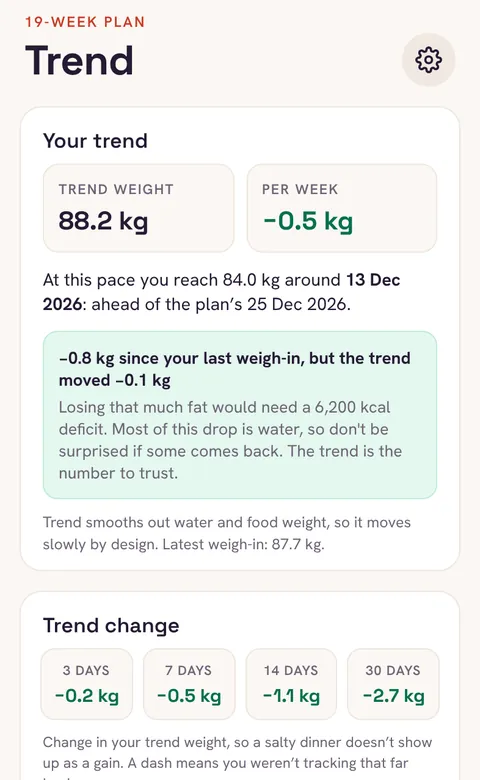
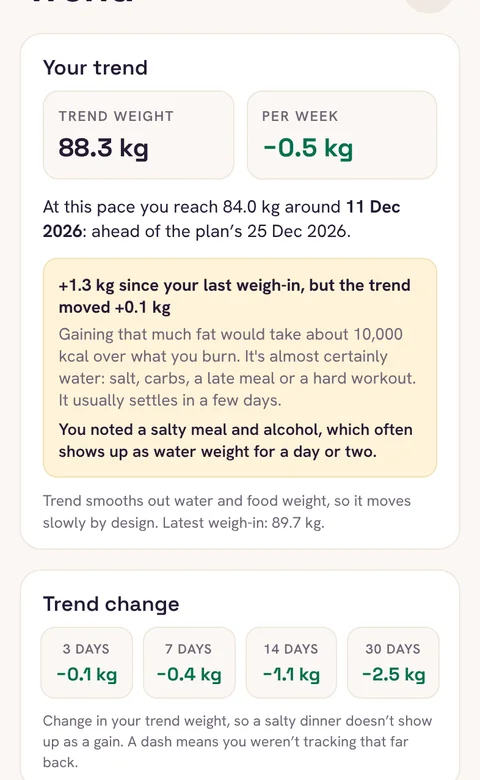
Web test build has Plus unlocked; website cards for the new features
- EXPO_PUBLIC_WEB_PLUS=1 (set by the Pages workflow) unlocks every Plus feature in the web test build only.
  It's checked together with Platform.OS === 'web', so it can't unlock the iPhone app; a test proves it.
- Inside Tidemark: six new cards from real renders (hide my weight, holding, medication, trend at each dose and
  side effects, doctor report, protein), with a Plus tag where it applies; the trend and log cards show tags.
  The card counter now counts the cards instead of a fixed 13.

Claude-Session: https://claude.ai/code/session_01NJzQ8Sbwud31aT5mXSmaWd

diff --git a/site/index.html b/site/index.html
@@ -300,6 +300,7 @@
     padding: 6px 10px; border-radius: 999px; margin-bottom: 12px; }
   .tag-now { color: var(--mint); background: var(--mint-bg); }
   .tag-soon { color: var(--amber); border: 1px solid rgba(255,162,75,.45); }
+  .tag-plus { color: var(--on-plum); background: rgba(255,107,94,.22); border: 1px solid rgba(255,107,94,.5); }
   .extras-note { text-align: center; color: var(--soft); font-size: 15px; max-width: 720px; margin: 22px auto 0; }
 
   /* Reminder choices */
@@ -392,16 +393,16 @@
             <figcaption><span class="tag tag-now">In the app</span><h3>Today, at a glance</h3><p>Your trend with the last 30 days behind it: the weigh-ins jump about, the trend stays calm, and the plan is the dashed line.</p></figcaption>
           </figure>
           <figure class="deck-card tone-deep">
-            <div class="deck-screen"><img src="shots/deck/trend.webp" width="480" height="780" alt="The Trend screen explaining that the last weigh-in dropped 0.8 kg but the trend moved only 0.1 kg." loading="lazy" decoding="async" draggable="false"></div>
-            <figcaption><span class="tag tag-now">In the app</span><h3>The scale jumps. The trend doesn’t.</h3><p>When one weigh-in drops 0.8 kg, Tidemark shows the trend moved 0.1 and explains why that’s water, not fat.</p></figcaption>
+            <div class="deck-screen"><img src="shots/deck/trend.webp" width="480" height="780" alt="The Trend screen: the scale went up 1.3 kg but the trend moved 0.1 kg, and because a salty meal and alcohol were noted the day before, it says that often shows up as water weight." loading="lazy" decoding="async" draggable="false"></div>
+            <figcaption><span class="tag tag-now">In the app</span><h3>The scale jumps. The trend doesn’t.</h3><p>When one weigh-in jumps 1.3 kg, Tidemark shows the trend barely moved, and if you noted a salty meal the night before, it says so.</p></figcaption>
           </figure>
           <figure class="deck-card tone-warm">
             <div class="deck-screen"><img src="shots/deck/progress.webp" width="480" height="780" alt="A progress chart of weigh-ins, the trend line and the target line over twelve weeks." loading="lazy" decoding="async" draggable="false"></div>
             <figcaption><span class="tag tag-now">In the app</span><h3>Held against your plan</h3><p>Weigh-ins, your trend and your target on one chart, over four weeks, twelve weeks or the whole plan.</p></figcaption>
           </figure>
           <figure class="deck-card tone-plum">
-            <div class="deck-screen"><img src="shots/deck/log.webp" width="480" height="780" alt="The Log weight sheet, opened on the last weight with plus and minus buttons." loading="lazy" decoding="async" draggable="false"></div>
-            <figcaption><span class="tag tag-now">In the app</span><h3>Logged in a tap or two</h3><p>It opens on your last weight. Nudge it up or down, save, and you’re done.</p></figcaption>
+            <div class="deck-screen"><img src="shots/deck/log.webp" width="480" height="780" alt="The Log weight sheet opened on the last weight, with tags to pick such as salty meal, alcohol, travel, period and poor sleep, and a note." loading="lazy" decoding="async" draggable="false"></div>
+            <figcaption><span class="tag tag-now">In the app</span><h3>Logged in a tap or two</h3><p>It opens on your last weight. Nudge it, save, and if you like tag the day: a salty meal, travel, your period. The chart marks it.</p></figcaption>
           </figure>
           <figure class="deck-card tone-deep">
             <div class="deck-screen"><img src="shots/deck/habits.webp" width="480" height="780" alt="The Habits screen with this week’s ticks for water, steps and sleep." loading="lazy" decoding="async" draggable="false"></div>
@@ -410,6 +411,30 @@
           <figure class="deck-card tone-warm">
             <div class="deck-screen"><img src="shots/deck/consistency.webp" width="480" height="780" alt="Thirty-day grids for water, steps and sleep with how often each was done." loading="lazy" decoding="async" draggable="false"></div>
             <figcaption><span class="tag tag-now">In the app</span><h3>Consistency you can see</h3><p>Thirty days of each habit at a glance, and how often it really happens, not how long a streak lasted.</p></figcaption>
+          </figure>
+          <figure class="deck-card tone-plum">
+            <div class="deck-screen"><img src="shots/deck/hide.webp" width="480" height="780" alt="Today with hide my weight on: the headline says Trending down, 0.4 kg this week, with no weight shown." loading="lazy" decoding="async" draggable="false"></div>
+            <figcaption><span class="tag tag-now">In the app</span><h3>See the trend, not the number</h3><p>Turn on Hide my weight and Tidemark shows which way you’re heading and by how much. Never the weight itself.</p></figcaption>
+          </figure>
+          <figure class="deck-card tone-deep">
+            <div class="deck-screen"><img src="shots/deck/holding.webp" width="480" height="780" alt="The Trend tab at the goal, offering to switch to holding within 1.5 kg of the goal weight." loading="lazy" decoding="async" draggable="false"></div>
+            <figcaption><span class="tag tag-now">In the app</span><h3>Reached your goal? Hold it.</h3><p>Switch to holding and Tidemark keeps you within a range. It stops counting further loss as progress.</p></figcaption>
+          </figure>
+          <figure class="deck-card tone-warm">
+            <div class="deck-screen"><img src="shots/deck/dose.webp" width="480" height="780" alt="A dose card: Mounjaro due today, 7.5 mg, with injection sites to choose and the one used longest ago picked." loading="lazy" decoding="async" draggable="false"></div>
+            <figcaption><span class="tag tag-now">In the app</span><h3>Your medication, logged</h3><p>Mark a weekly GLP-1 dose as taken and get a dose-day reminder, free. With Plus, rotate injection sites and note how you feel.</p></figcaption>
+          </figure>
+          <figure class="deck-card tone-plum">
+            <div class="deck-screen"><img src="shots/deck/effects.webp" width="480" height="780" alt="How the trend moved at each dose of Mounjaro, and side effects through the week: nausea most often the day after a dose." loading="lazy" decoding="async" draggable="false"></div>
+            <figcaption><span class="tag tag-plus">Plus</span><h3>Your trend at each dose</h3><p>See how your trend moved on each dose, and when side effects tend to show up after one.</p></figcaption>
+          </figure>
+          <figure class="deck-card tone-deep">
+            <div class="deck-screen"><img src="shots/deck/report.webp" width="480" height="780" alt="A weight report: a 12-week trend chart, a weekly table, doses and injection sites, side effects and notes." loading="lazy" decoding="async" draggable="false"></div>
+            <figcaption><span class="tag tag-plus">Plus</span><h3>A report for your doctor</h3><p>Twelve weeks of trend, doses, side effects and notes as a PDF, made on your phone and shared only where you choose.</p></figcaption>
+          </figure>
+          <figure class="deck-card tone-warm">
+            <div class="deck-screen"><img src="shots/deck/protein.webp" width="480" height="780" alt="A protein card: 60 of 120 grams today, with buttons to add 10, 20 or 30 grams." loading="lazy" decoding="async" draggable="false"></div>
+            <figcaption><span class="tag tag-plus">Plus</span><h3>A protein minimum</h3><p>A daily floor of 1.2 to 1.6 g per kg, to help keep muscle while you lose fat. Add it in quick taps.</p></figcaption>
           </figure>
           <figure class="deck-card tone-plum">
             <div class="deck-art"><div class="rem" role="img" aria-label="Reminder settings: weigh-in at 7:30 on, dose day at 9:00 on, and, coming soon, a habit nudge, a weekly summary on Sundays and quiet days at weekends.">
@@ -452,12 +477,12 @@
           <button type="button" class="deck-btn" data-go="next" aria-label="Next card"><svg width="16" height="16" viewBox="0 0 16 16" fill="none" aria-hidden="true"><path d="m6 3 5 5-5 5" stroke="currentColor" stroke-width="1.6" stroke-linecap="round" stroke-linejoin="round"/></svg></button>
         </div>
         <div class="deck-foot">
-          <span class="deck-count" aria-hidden="true"><b>01</b> / 13</span>
+          <span class="deck-count" aria-hidden="true"><b>01</b> / 19</span>
           <button type="button" class="deck-play" aria-pressed="false">Pause</button>
         </div>
         <p class="deck-sr" aria-live="polite"></p>
       </div>
-      <p class="extras-note"><span class="js-only">Drag the top card away, or use the arrows. </span>Everything marked “In the app” is in the first release. Widgets are built and being tested on iPhone; Apple Watch and the extra reminder choices are planned for an update. The widget and Watch pictures are designs, so the finished versions may differ. Reminders are set up on your iPhone itself, so nothing is sent to a server.</p>
+      <p class="extras-note"><span class="js-only">Drag the top card away, or use the arrows. </span>Everything marked “In the app” is in the first release; cards marked “Plus” are part of Tidemark Plus. Widgets are built and being tested on iPhone; Apple Watch and the extra reminder choices are planned for an update. The widget and Watch pictures are designs, so the finished versions may differ. Reminders are set up on your iPhone itself, so nothing is sent to a server.</p>
     </div>
   </section>
 
@@ -748,6 +773,7 @@
     if (!deck) return;
     var pile = deck.querySelector('.deck-pile'), cards = [].slice.call(pile.children), n = cards.length;
     var cap = deck.querySelector('.deck-cap'), count = deck.querySelector('.deck-count b'), live = deck.querySelector('.deck-sr');
+    count.nextSibling.textContent = ' / ' + n;   // the total follows the cards, so adding one never leaves it wrong
     var play = deck.querySelector('.deck-play');
     var reduce = window.matchMedia('(prefers-reduced-motion: reduce)').matches;
     var top = 0, busy = false, over = null, lastTouch = 0, playing = !reduce, seen = false, AUTO = 5200;

diff --git a/mobile/src/__tests__/launch.test.tsx b/mobile/src/__tests__/launch.test.tsx
@@ -29,10 +29,19 @@ describe('error reports', () => {
 describe('launch switches', () => {
   test('both risky features are on unless a build turns them off', () => {
     // eslint-disable-next-line @typescript-eslint/no-require-imports
-    jest.isolateModules(() => { expect(require('../features').FEATURES).toEqual({ medication: true, protectedBackups: true }); });
+    jest.isolateModules(() => { expect(require('../features').FEATURES).toEqual({ medication: true, protectedBackups: true, webPlus: false }); });
+  });
+  test('the web preview switch can never unlock Plus in the iPhone app', () => {
+    process.env.EXPO_PUBLIC_WEB_PLUS = '1';
+    try {
+      // eslint-disable-next-line @typescript-eslint/no-require-imports
+      jest.isolateModules(() => { expect(require('../features').FEATURES.webPlus).toBe(false); });   // tests run as iOS
+    } finally { delete process.env.EXPO_PUBLIC_WEB_PLUS; }
+  });
+  test('a build can turn each risky feature off', () => {
     process.env.EXPO_PUBLIC_DISABLE_MEDICATION = '1';
     process.env.EXPO_PUBLIC_DISABLE_PROTECTED_BACKUPS = '1';
     // eslint-disable-next-line @typescript-eslint/no-require-imports
-    jest.isolateModules(() => { expect(require('../features').FEATURES).toEqual({ medication: false, protectedBackups: false }); });
+    jest.isolateModules(() => { expect(require('../features').FEATURES).toEqual({ medication: false, protectedBackups: false, webPlus: false }); });
   });
 });

diff --git a/mobile/src/features.ts b/mobile/src/features.ts
@@ -3,9 +3,16 @@
 // Turn one off for a build with EXPO_PUBLIC_DISABLE_MEDICATION=1 or EXPO_PUBLIC_DISABLE_PROTECTED_BACKUPS=1
 // (in eas.json under the build profile's "env", or in front of the command). Each must be written out in full:
 // Expo only fills in EXPO_PUBLIC_ values that appear literally in the code.
+import { Platform } from 'react-native';
+
 export const FEATURES = {
   /** The GLP-1 / medication log, dose reminders and dose history. Off hides it all; saved doses are kept. */
   medication: process.env.EXPO_PUBLIC_DISABLE_MEDICATION !== '1',
   /** Password-protected backups (the app's own encryption). Off exports plain backups only. */
   protectedBackups: process.env.EXPO_PUBLIC_DISABLE_PROTECTED_BACKUPS !== '1',
+  /**
+   * The web test build (EXPO_PUBLIC_WEB_PLUS=1, set by the Pages workflow) has every Plus feature unlocked: nothing can
+   * be bought on the web, and it's the owner's preview of the full app. Web only, so it can never unlock the iPhone app.
+   */
+  webPlus: Platform.OS === 'web' && process.env.EXPO_PUBLIC_WEB_PLUS === '1',
 };

diff --git a/mobile/src/plus.tsx b/mobile/src/plus.tsx
@@ -3,6 +3,7 @@ import { createContext, ReactNode, useCallback, useContext, useEffect, useMemo, 
 import { AppState } from 'react-native';
 import { Paywall } from './components/Paywall';
 import { plusActive, PlusFeature, PlusStatus } from './core/plus';
+import { FEATURES } from './features';
 import { checkPlus, manageSubscription, onStoreUpdates, restore as restoreStore, storeAvailable } from './purchases';
 import { notify } from './dialogs';
 import { success } from './feel';
@@ -68,7 +69,7 @@ export function PlusProvider({ status, onStatus, locked, children }: { status: P
     if (s.active) setPaywall(null);
   }, [onStatus]);
 
-  const plus = plusActive(status, now);
+  const plus = FEATURES.webPlus || plusActive(status, now);
   const api = useMemo<PlusApi>(() => ({
     plus, status, storeAvailable, restore, manage: () => { manageSubscription(); },
     openPaywall: why => setPaywall(why ?? 'any'),

diff --git a/mobile/src/App.tsx b/mobile/src/App.tsx
@@ -65,7 +65,7 @@ function Main() {
   const { setPrefs } = t;
   const onPlusStatus = useCallback((plus: PlusStatus) => setPrefs({ plus }), [setPrefs]);
   const { state, prefs } = t;
-  const plusOn = plusActive(prefs.plus);   // Tidemark Plus, as Apple last confirmed it
+  const plusOn = FEATURES.webPlus || plusActive(prefs.plus);   // Tidemark Plus, as Apple last confirmed it (or the web preview)
   setWeightsHidden(prefs.hide);            // read by showWeight() during this render, like the colour palette
   const today = useToday();
   useAppearance(prefs.appearance);
